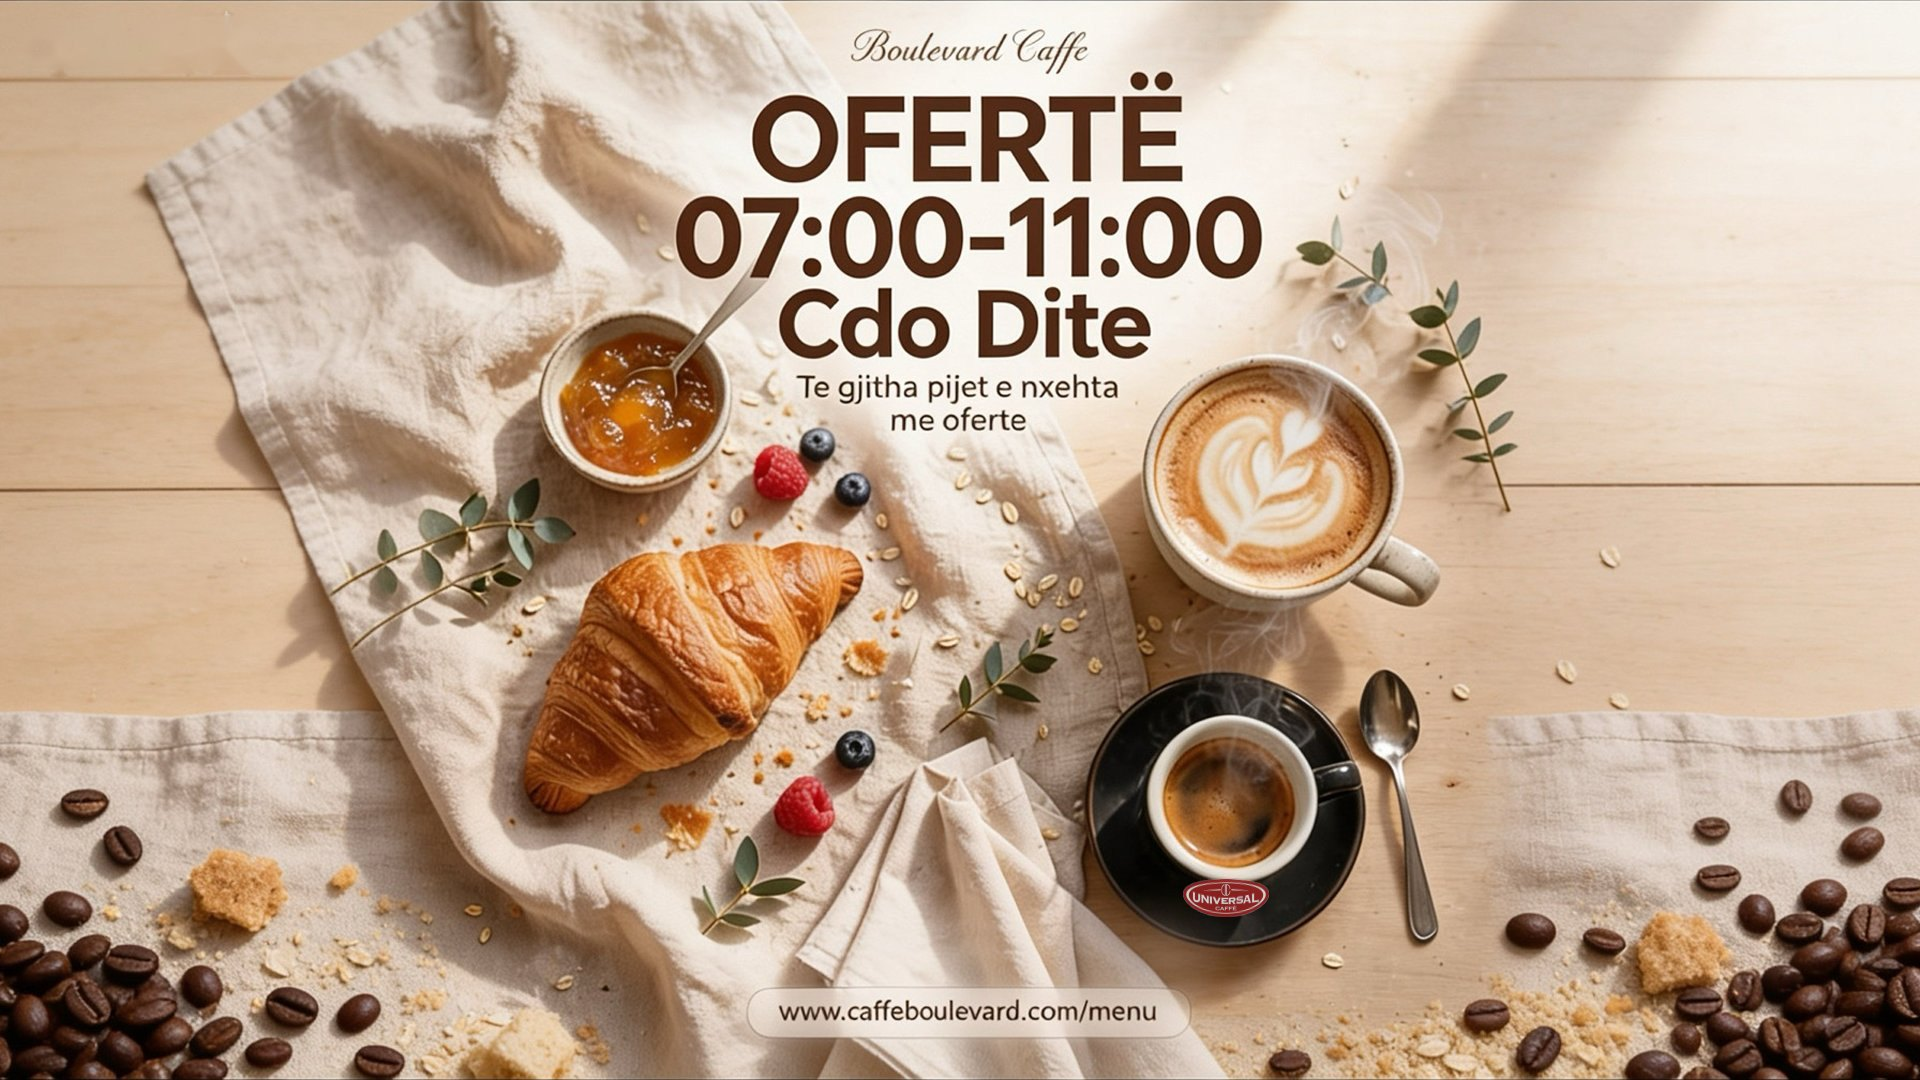
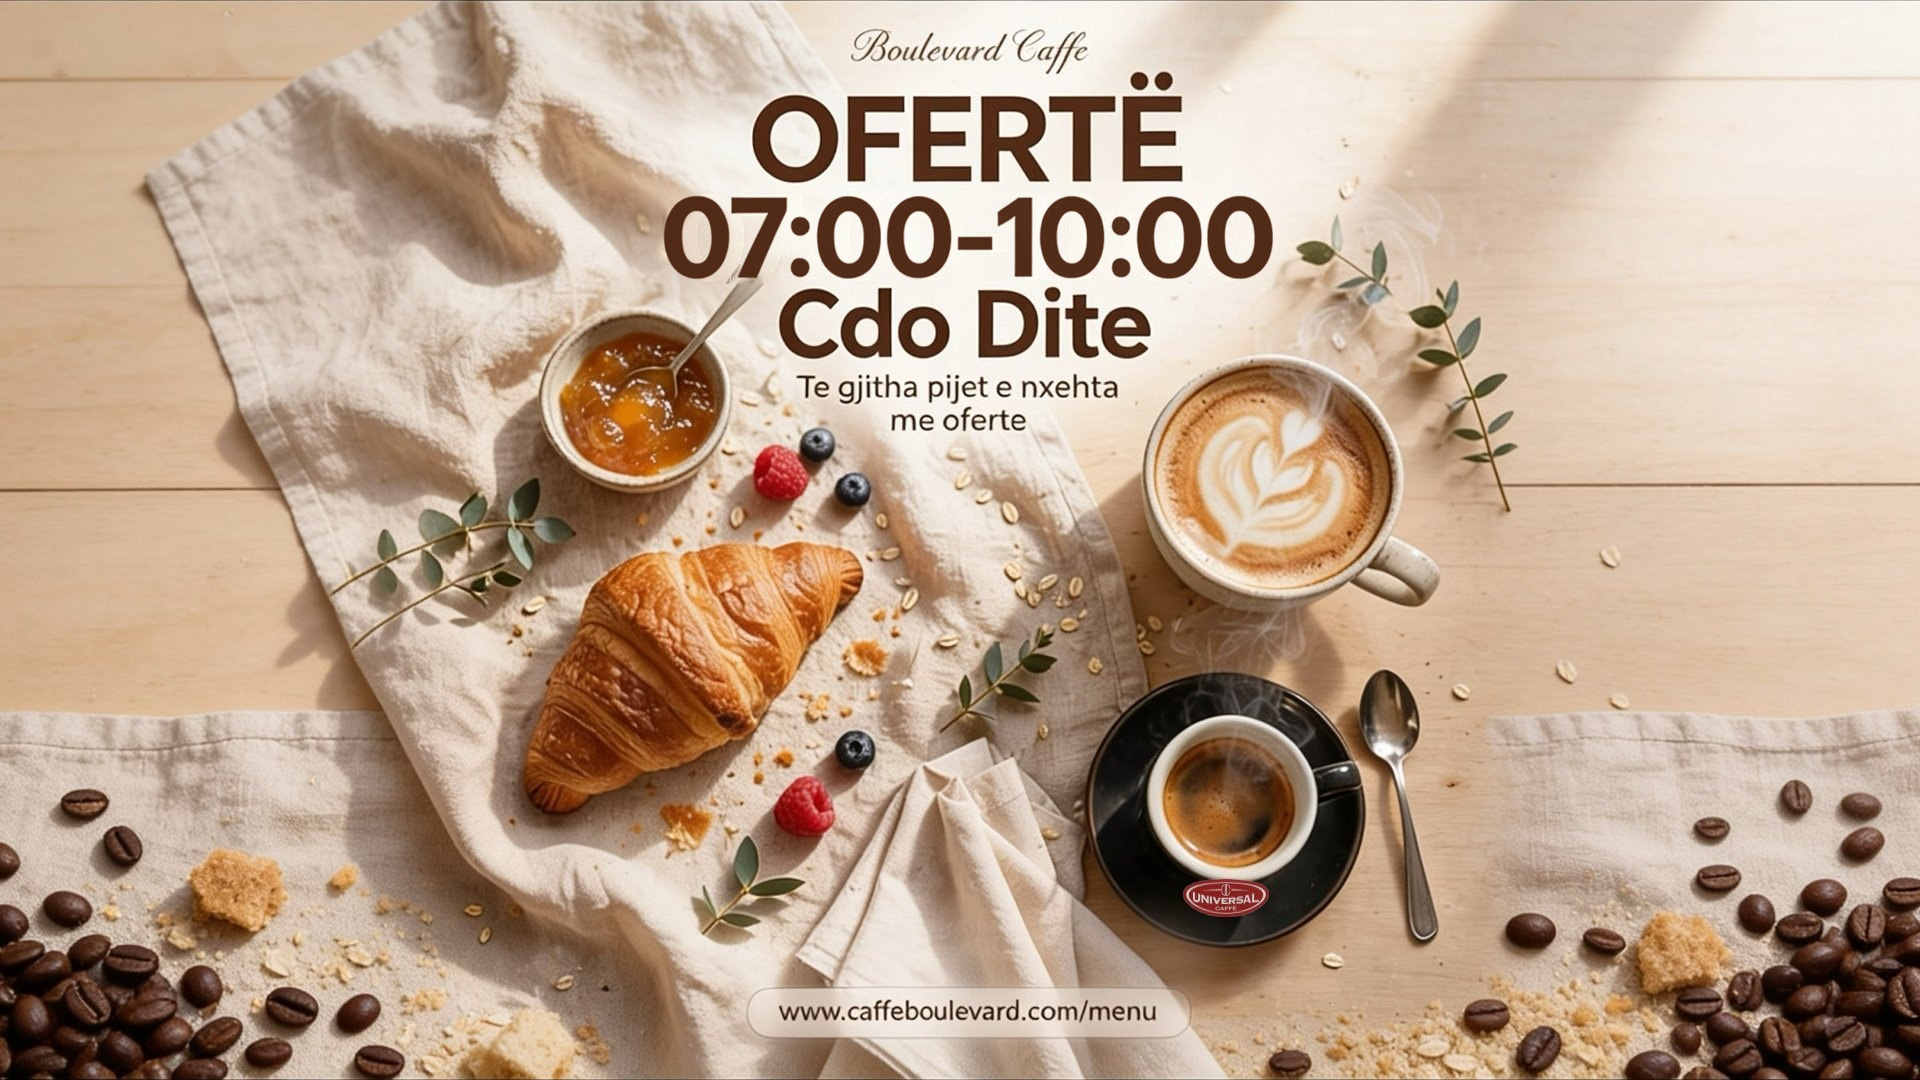
Oferta e Mëngjesit 07:00-10:00: posteri në TV dhe orari i parazgjedhur në mjetet
Claude-Session: https://claude.ai/code/session_01BXnNWV21129nXVSCLX7x1d

Changed region(s): [[0.3438, 0.1833, 0.6875, 0.275]]

diff --git a/tools/lastcall.py b/tools/lastcall.py
@@ -1,6 +1,6 @@
 """10:00 'last hour of the breakfast offer' Story for Boulevard Caffe.
 
-python3 tools/lastcall.py YYYY-MM-DD rows.json [--until 11:00]
+python3 tools/lastcall.py YYYY-MM-DD rows.json [--until 10:00]
 rows.json: [["Çokollatë e nxehtë", 150, 170], ["Tost mëngjesi", 150, null], ...]  (label, price now, old price or null)
 Writes media/daily/oferta-ora-fundit-YYYY-MM-DD.jpg (1080x1920).
 """
@@ -33,7 +33,7 @@ def center(d, y, txt, f, fill):
     bb = d.textbbox((0, 0), txt, font=f)
     d.text(((W - (bb[2] - bb[0])) // 2 - bb[0], y), txt, font=f, fill=fill)
 
-def render(date, rows, until="11:00", qr=False):
+def render(date, rows, until="10:00", qr=False):
     p = Image.open(os.path.join(ROOT, "media", "base", "latte-flatlay.jpg")).convert("RGB")
     s = max(W / p.width, H / p.height)
     p = p.resize((int(p.width * s) + 1, int(p.height * s) + 1))
@@ -68,6 +68,6 @@ def render(date, rows, until="11:00", qr=False):
     return out
 
 if __name__ == "__main__":
-    a = argparse.ArgumentParser(); a.add_argument("date"); a.add_argument("rows"); a.add_argument("--until", default="11:00"); a.add_argument("--qr", action="store_true")
+    a = argparse.ArgumentParser(); a.add_argument("date"); a.add_argument("rows"); a.add_argument("--until", default="10:00"); a.add_argument("--qr", action="store_true")
     a = a.parse_args()
     print(render(a.date, json.load(open(a.rows)), a.until, qr=a.qr))

diff --git a/tools/greeting.py b/tools/greeting.py
@@ -1,6 +1,6 @@
 """Render the daily morning Instagram Story for Boulevard Caffe.
 
-Usage: python3 tools/greeting.py YYYY-MM-DD [--offer "Ekspres 60 lekë deri në 11:00"]
+Usage: python3 tools/greeting.py YYYY-MM-DD [--offer "Ekspres 60 lekë deri në 10:00"]
 Writes media/daily/greeting-YYYY-MM-DD.jpg (1080x1920).
 """
 import argparse, datetime, os
